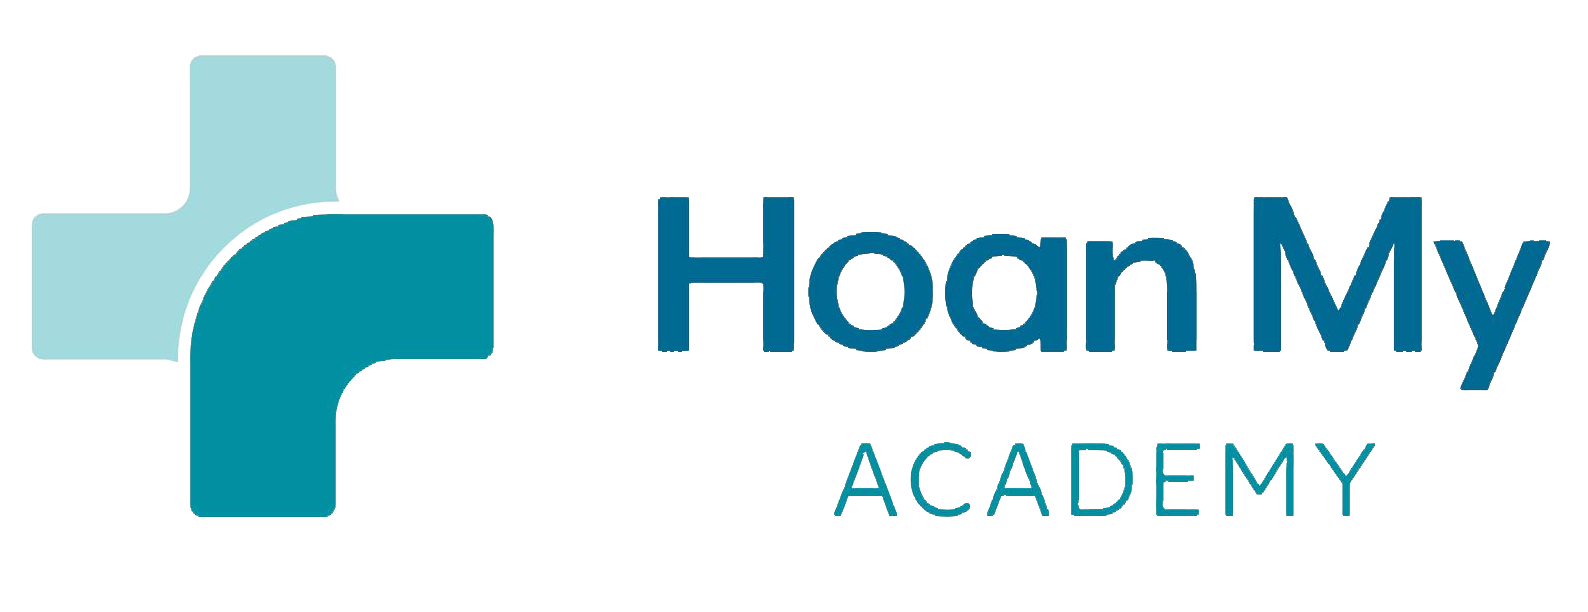
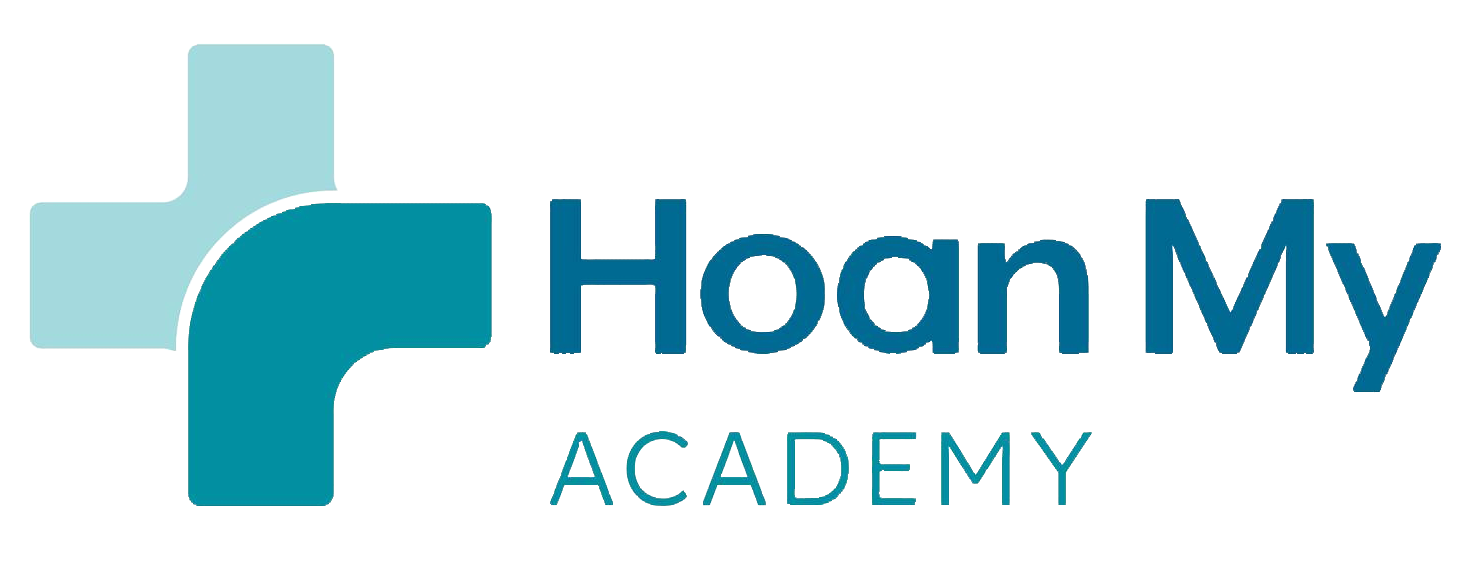
chỉnh size

diff --git a/index.html b/index.html
@@ -12,8 +12,8 @@
 <body>
 	<div class="titleText">
 		<img class="logo1" src="photos/hoanmyfinal2.png">
-		<h1 class="headerTool" >CHƯƠNG TRÌNH CẬP NHẬT KỸ NĂNG VÀ KIẾN THỨC CHUYÊN MÔN VỀ DƯỢC</h1>
-		<h5 class="headerTool1">CÁC THÔNG TIN MỚI VỀ SỬ DỤNG THUỐC AN TOÀN - HỢP LÝ - HIỆU QUẢ TẠI BV/PK/NHÀ THUỐC/CTY DƯỢC DÀNH CHO SDTC/SDCĐ/DSĐH, Y SĨ, BÁC SĨ, ĐIỀU DƯỠNG, NỮ HỘ SINH VÀ KÝ THUẬT VIÊN</h5>
+		<h1 class="headerTool" style="text-align: center;">CHƯƠNG TRÌNH CẬP NHẬT KỸ NĂNG VÀ KIẾN THỨC CHUYÊN MÔN VỀ DƯỢC</h1>
+		<h5 class="headerTool" style="text-align: center;">(CÁC THÔNG TIN MỚI VỀ SỬ DỤNG THUỐC AN TOÀN - HỢP LÝ - HIỆU QUẢ TẠI BV/PK/NHÀ THUỐC/CTY DƯỢC DÀNH CHO SDTC/SDCĐ/DSĐH, Y SĨ, BÁC SĨ, ĐIỀU DƯỠNG, NỮ HỘ SINH VÀ KÝ THUẬT VIÊN)</h5>
 
 		<!-- <img class="logo2" src="photos/1777101470264-ea938312-9806-4f63-ac76-61ba9facef75_1.png">		 -->
 	</div>

diff --git a/styles.css b/styles.css
@@ -277,7 +277,7 @@ body {
  }
  .logo1,.logo2
  {
-	height: 150px;
+	height: 100px;
 	border-radius: 5px;
  }
  .titleText
@@ -317,7 +317,7 @@ body {
 	  gap: 20px;
 	}
 	.headerTool {
-	  font-size: 24px;
+	  font-size: 20px;
 	  text-align: left;
 	}
 	.buttonTraCu, .buttonDangKi {
@@ -333,7 +333,7 @@ body {
 	  gap: 15px;
 	}
 	.headerTool {
-	  font-size: 20px;
+	  font-size: 18px;
 	  text-align: center;
 	}
 	.buttonTraCu, .buttonDangKi {
